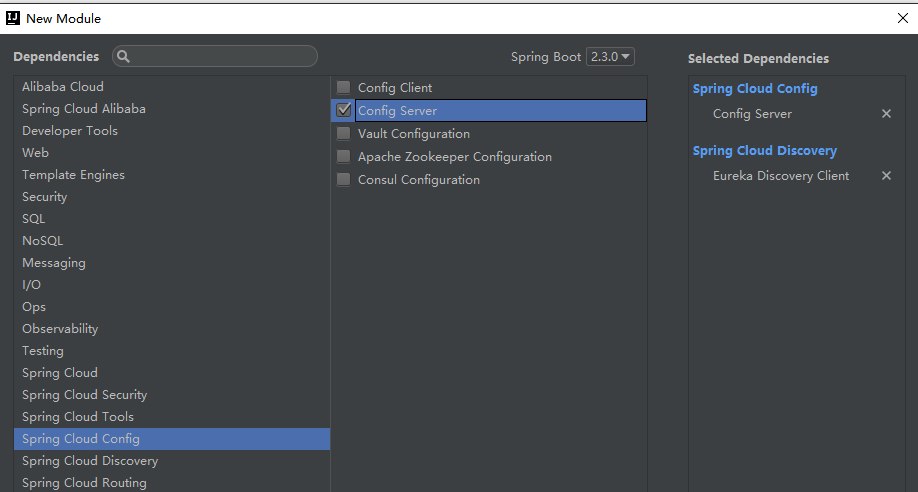
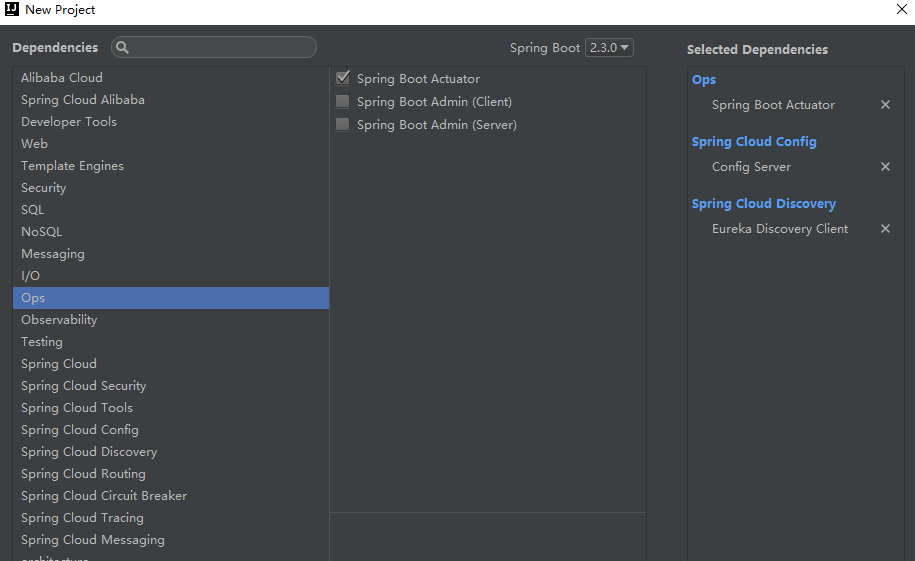
配置中心客户端手动刷新

diff --git a/consumer/src/main/java/com/park/consumer/controller/AccountController.java b/consumer/src/main/java/com/park/consumer/controller/AccountController.java
@@ -5,17 +5,25 @@ import com.park.consumer.domain.Account;
 import com.park.consumer.domain.Email;
 import org.springframework.beans.factory.annotation.Autowired;
 import org.springframework.beans.factory.annotation.Value;
+import org.springframework.cloud.context.config.annotation.RefreshScope;
 import org.springframework.web.bind.annotation.*;
 
 /**
  * @author BarryLee
  */
+@RefreshScope
 @RestController
 @RequestMapping("/account")
 public class AccountController {
 
     @Value("${server.port}")
     private String port;
+
+    /**
+     * 从配置文件读取，用来测试配置文件是否更新成功
+     */
+    @Value("${configText}")
+    private String configText;
 
     @Autowired
     private MsgApi msgApi;
@@ -40,6 +48,11 @@ public class AccountController {
     @GetMapping("/zuul")
     public String testZuul() {
         return port;
+    }
+
+    @GetMapping("/testConfig")
+    public String testConfig() {
+        return configText;
     }
 
 }

diff --git a/doc/spring-cloud搭建.md b/doc/spring-cloud搭建.md
@@ -791,7 +791,7 @@ management:
 
 ## 服务端搭建
 
-1. 继续添加 module config，依赖选择 config server，eureka client
+1. 继续添加 module config，依赖选择 config server，eureka client，actuator
 
 ![1](./img/31.png)
 
@@ -830,7 +830,7 @@ eureka:
 ## Git 仓库
 
 1. 在你的 git 新建一个仓库：config-server
-2. 新增一个文件：application-test.yml
+2. 新增一个文件：consumer-dev.yml
 
 ```
 server:
@@ -874,13 +874,18 @@ management:
     web:
       exposure:
         include: "*"
+
+# 用来测试能否通过配置中心更新配置
+configText: park111
 ```
 
-3. 打开 http://localhost:5900/application-test.yml 可以看到页面显示了仓库中的 application-test.yml文档，也就是我们的服务端 ready 了
+3. 打开 http://localhost:5900/application-test.yml 可以看到页面显示了仓库中的 consumer-dev.yml文档，也就是我们的配置中心 server 端 ready 了
 
 ## 客户端配置
 
-1. 比如 consumer，首先，引入 spring cloud config client 依赖
+### 手动刷新配置
+
+1. 比如 consumer，首先，引入 spring cloud config client，以及 actuator 依赖
 
 ```
 <!-- config-client -->
@@ -888,17 +893,65 @@ management:
     <groupId>org.springframework.cloud</groupId>
     <artifactId>spring-cloud-config-client</artifactId>
 </dependency>
+<!-- actuator -->
+<dependency>
+    <groupId>org.springframework.boot</groupId>
+    <artifactId>spring-boot-starter-actuator</artifactId>
+</dependency>
 ```
 
-2. 
+2. 将 application.yml 配置文件改成 **bootstrap.properties** 
 
 ```
-#直接URL方式查找配置中心
-spring.cloud.config.uri=http://localhost:9999/
-#通过注册中心查找
-#spring.cloud.config.discovery.enabled=true
-#spring.cloud.config.discovery.service-id=a-config
+#配置中心
+spring.cloud.config.uri=http://localhost:5900
+
+#git 分支
+spring.cloud.config.label=master
+
+#下面两个配置，相当于启用配置文件：application-test.yml，这里就是 consumer-dev.yml
+#application 部分
+spring.cloud.config.name=consumer
+#profile 部分
 spring.cloud.config.profile=dev
-spring.cloud.config.label=dev
+
+#refresh 允许更新，也可以用 * 来暴露所有端点
+management.endpoints.web.exposure.include=*
 ```
 
+3. consumer 的 AccountController 类加入注解，加入这个注解之后，当前类的所有 @Value 注解都会被更新
+
+```
+@RefreshScope
+```
+
+4. AccountController 类加入代码，用来测试配置文件更新
+
+```
+/**
+ * 从配置文件读取，用来测试配置文件是否更新成功
+ */
+@Value("${configText}")
+private String configText;
+
+@GetMapping("/testConfig")
+    public String testConfig() {
+    return configText;
+}
+```
+
+5. 启动 consumer 测试一下是否从配置中心拉取了配置文件 consumer-dev.yml，发送一个 get 请求：http://localhost:8800/account/testConfig ，返回了 configText，说明拉取成功
+6. 更新 git 上配置文件 consumer-dev.yml 中的 configText 为 park222
+
+```
+# 用来测试能否通过配置中心更新配置
+configText: park222
+```
+
+7. 手动刷新，调用 post 请求，http://localhost:8800/actuator/refresh
+
+![1](./img/33.png)
+
+8. 再次发送一个 get 请求：http://localhost:8800/account/testConfig ，可以看到此时 configText 已经变成了 park222，说明手动刷新配置文件成功
+
+### 自动刷新配置
